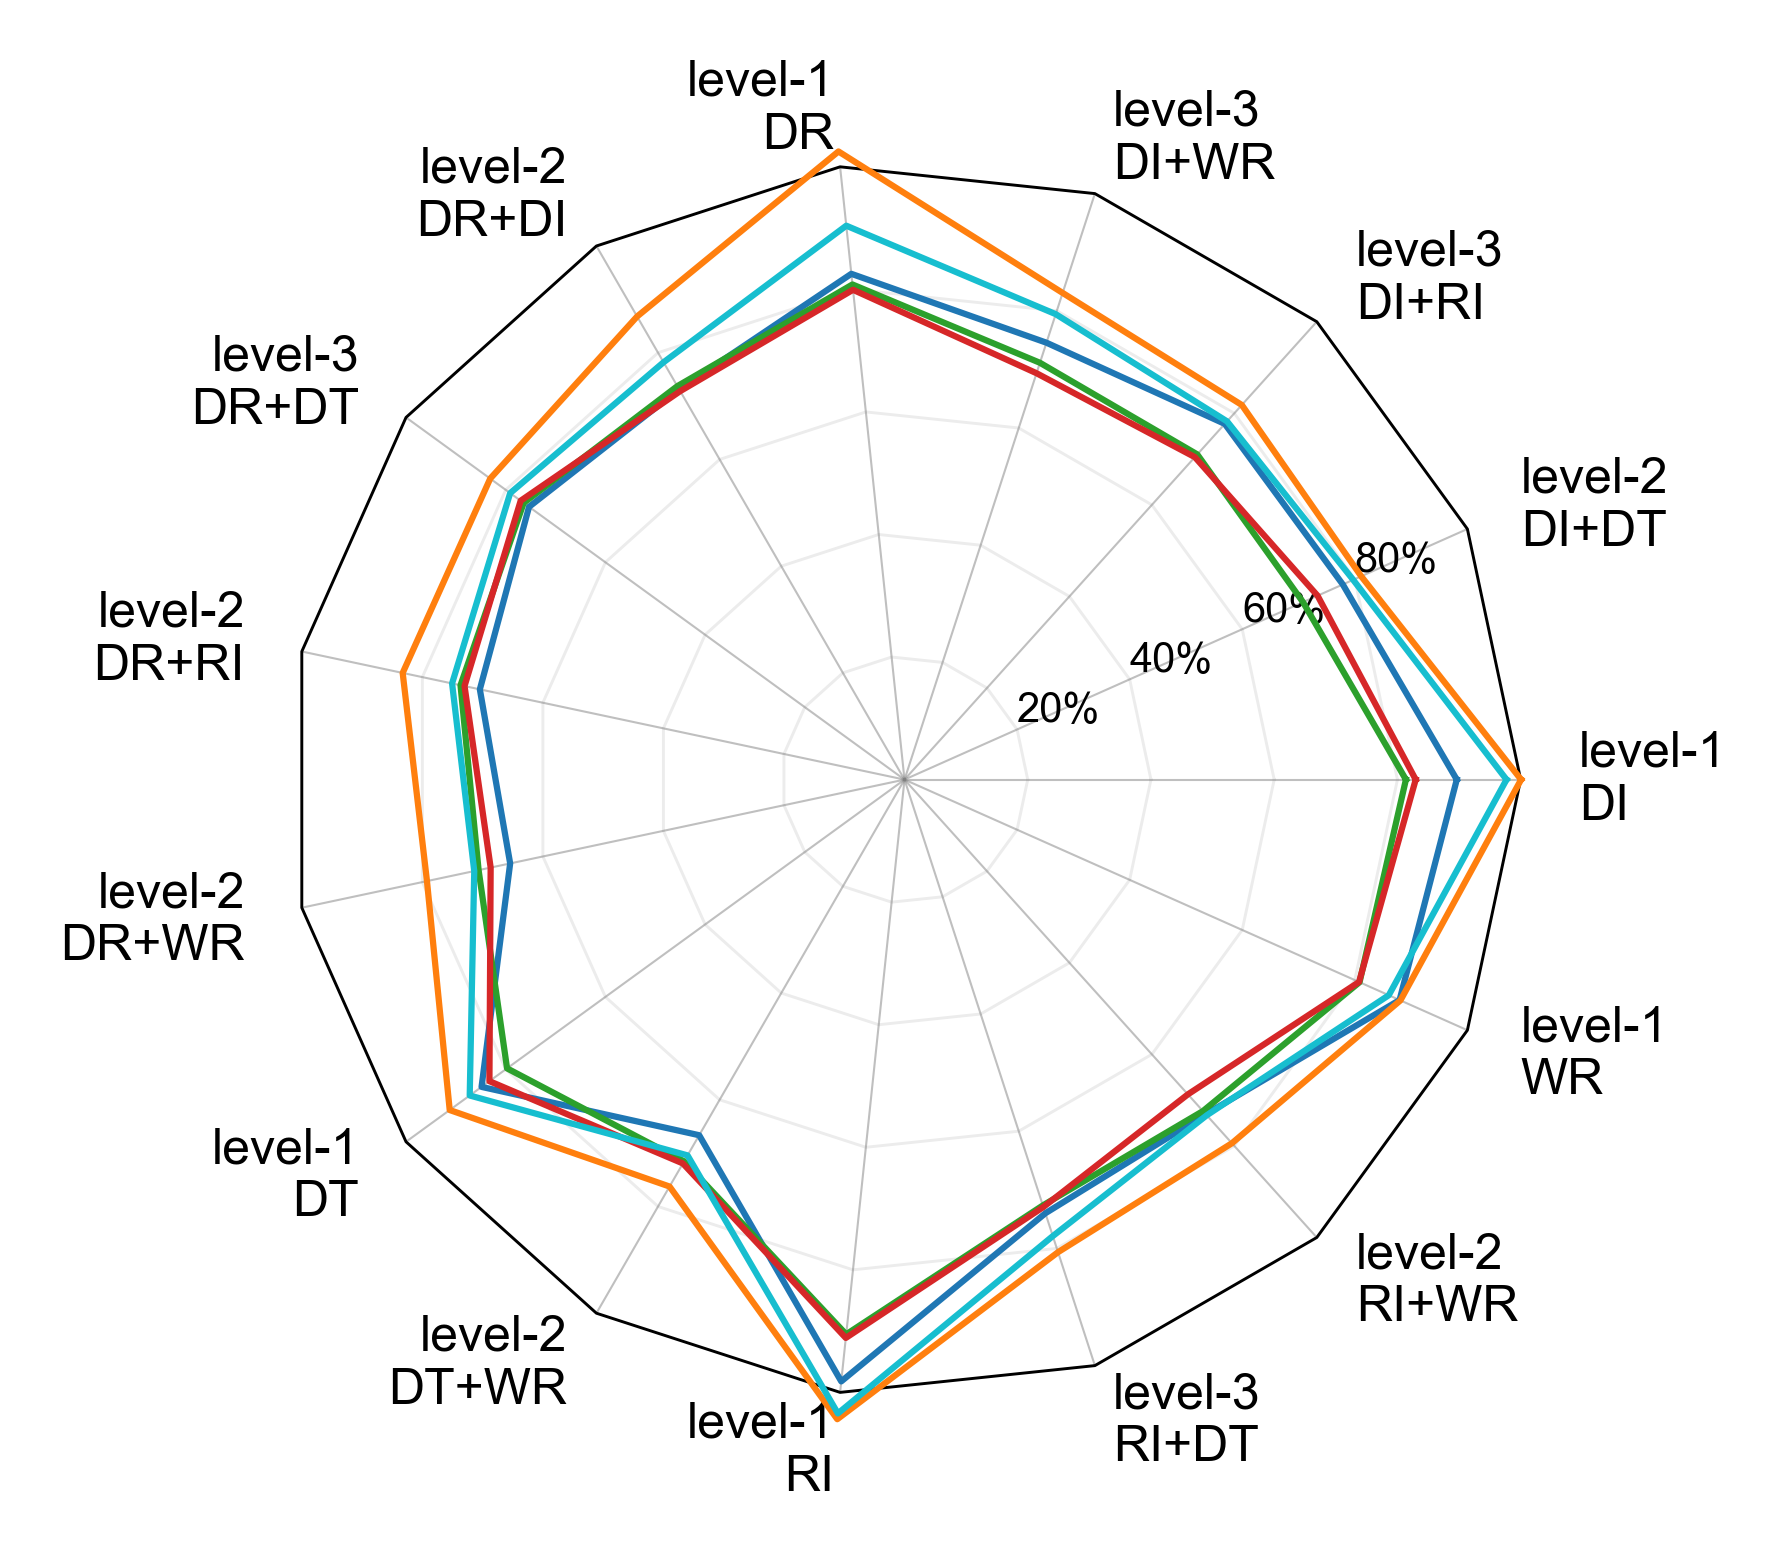
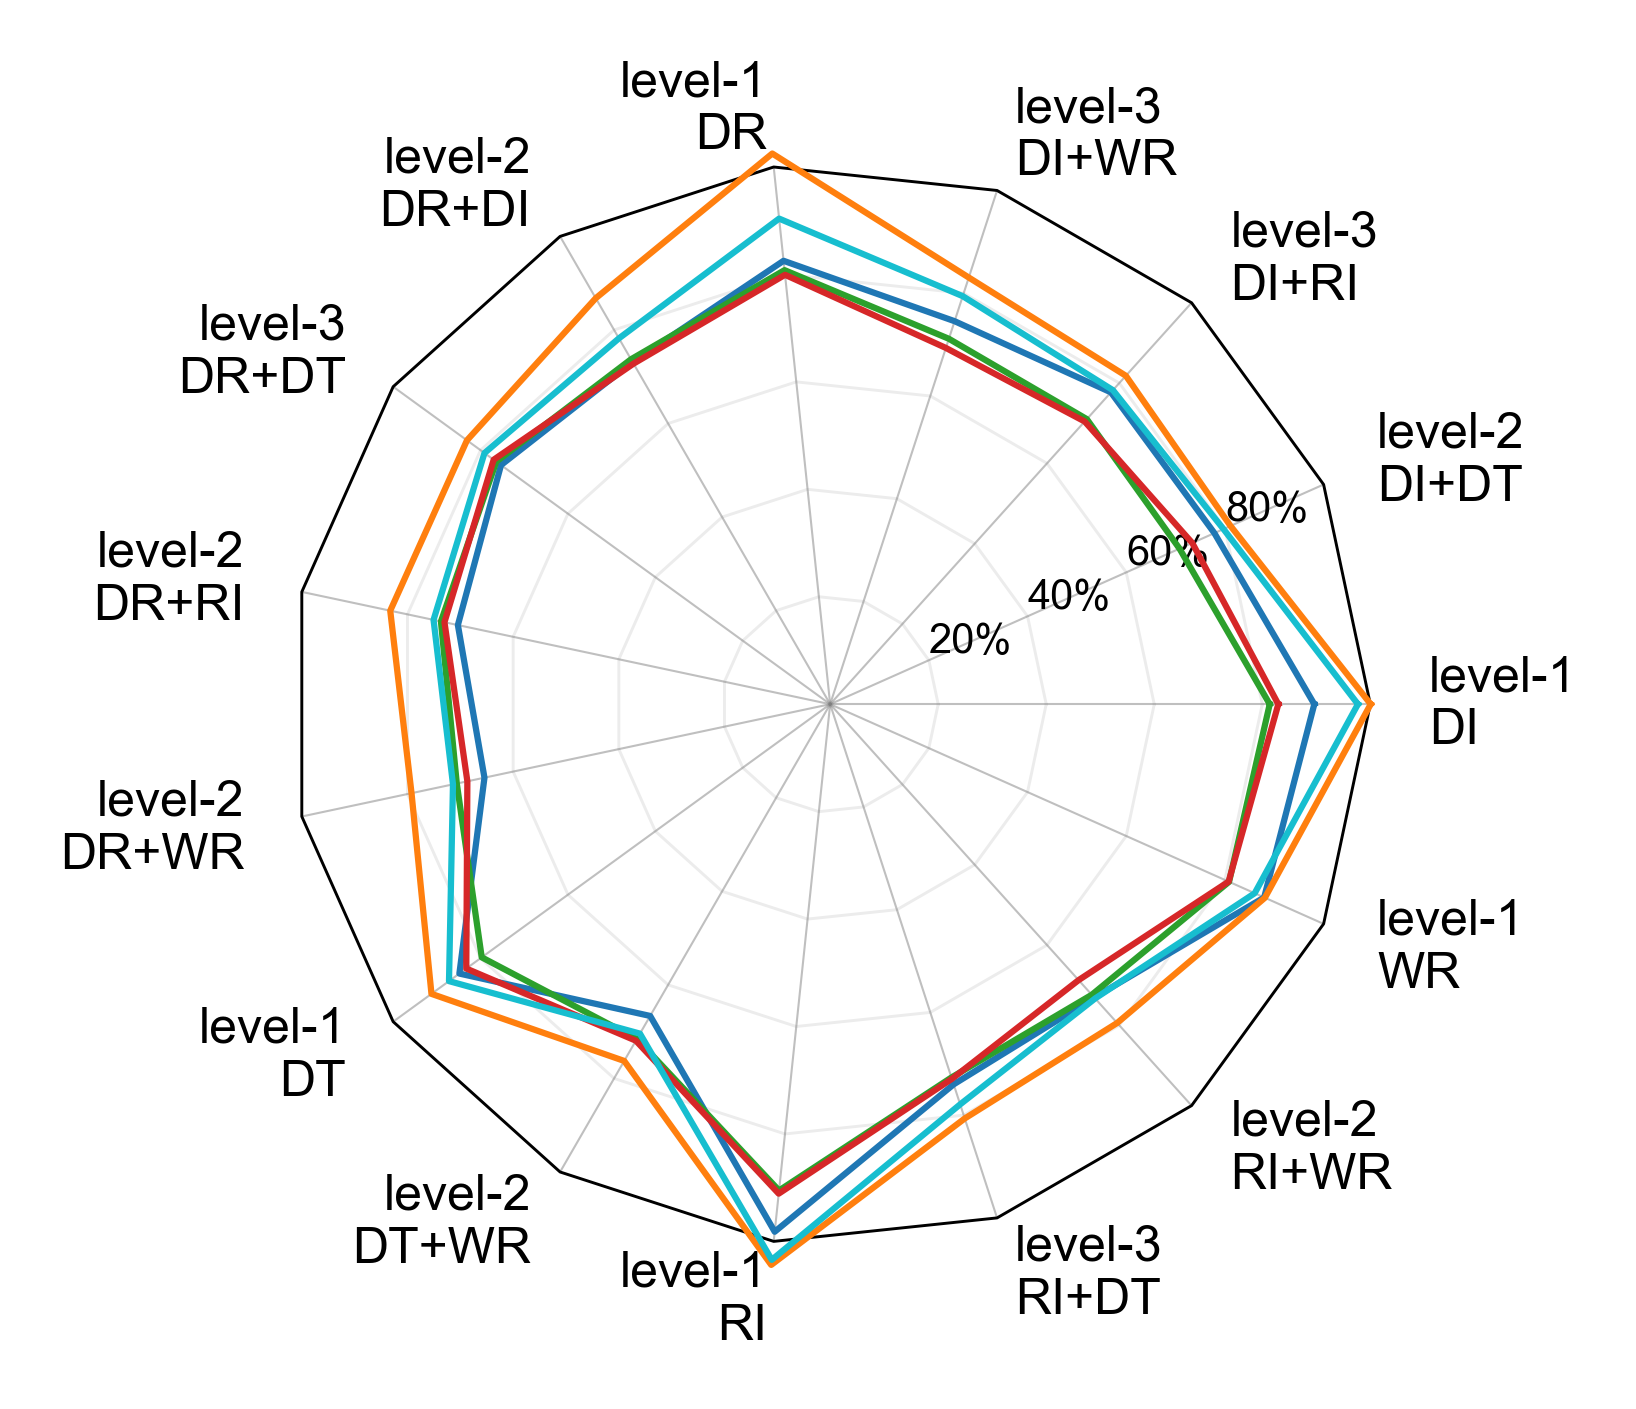
Make the spider figures more compact.

diff --git a/routing_result_plotting/file_utils.py b/routing_result_plotting/file_utils.py
@@ -333,7 +333,7 @@ def plot_spider_charts(save_result_path, sample_num):
         angles += angles[:1]  # Close the loop
 
         # Create the plot with specific figure size for paper
-        fig, ax = plt.subplots(figsize=(6, 6), subplot_kw=dict(projection='polar'))
+        fig, ax = plt.subplots(figsize=(5.5, 5.5), subplot_kw=dict(projection='polar'))
 
         # Set the category labels with consistent formatting
         plt.xticks(angles[:-1], category_labels, fontsize=12, va='center')
